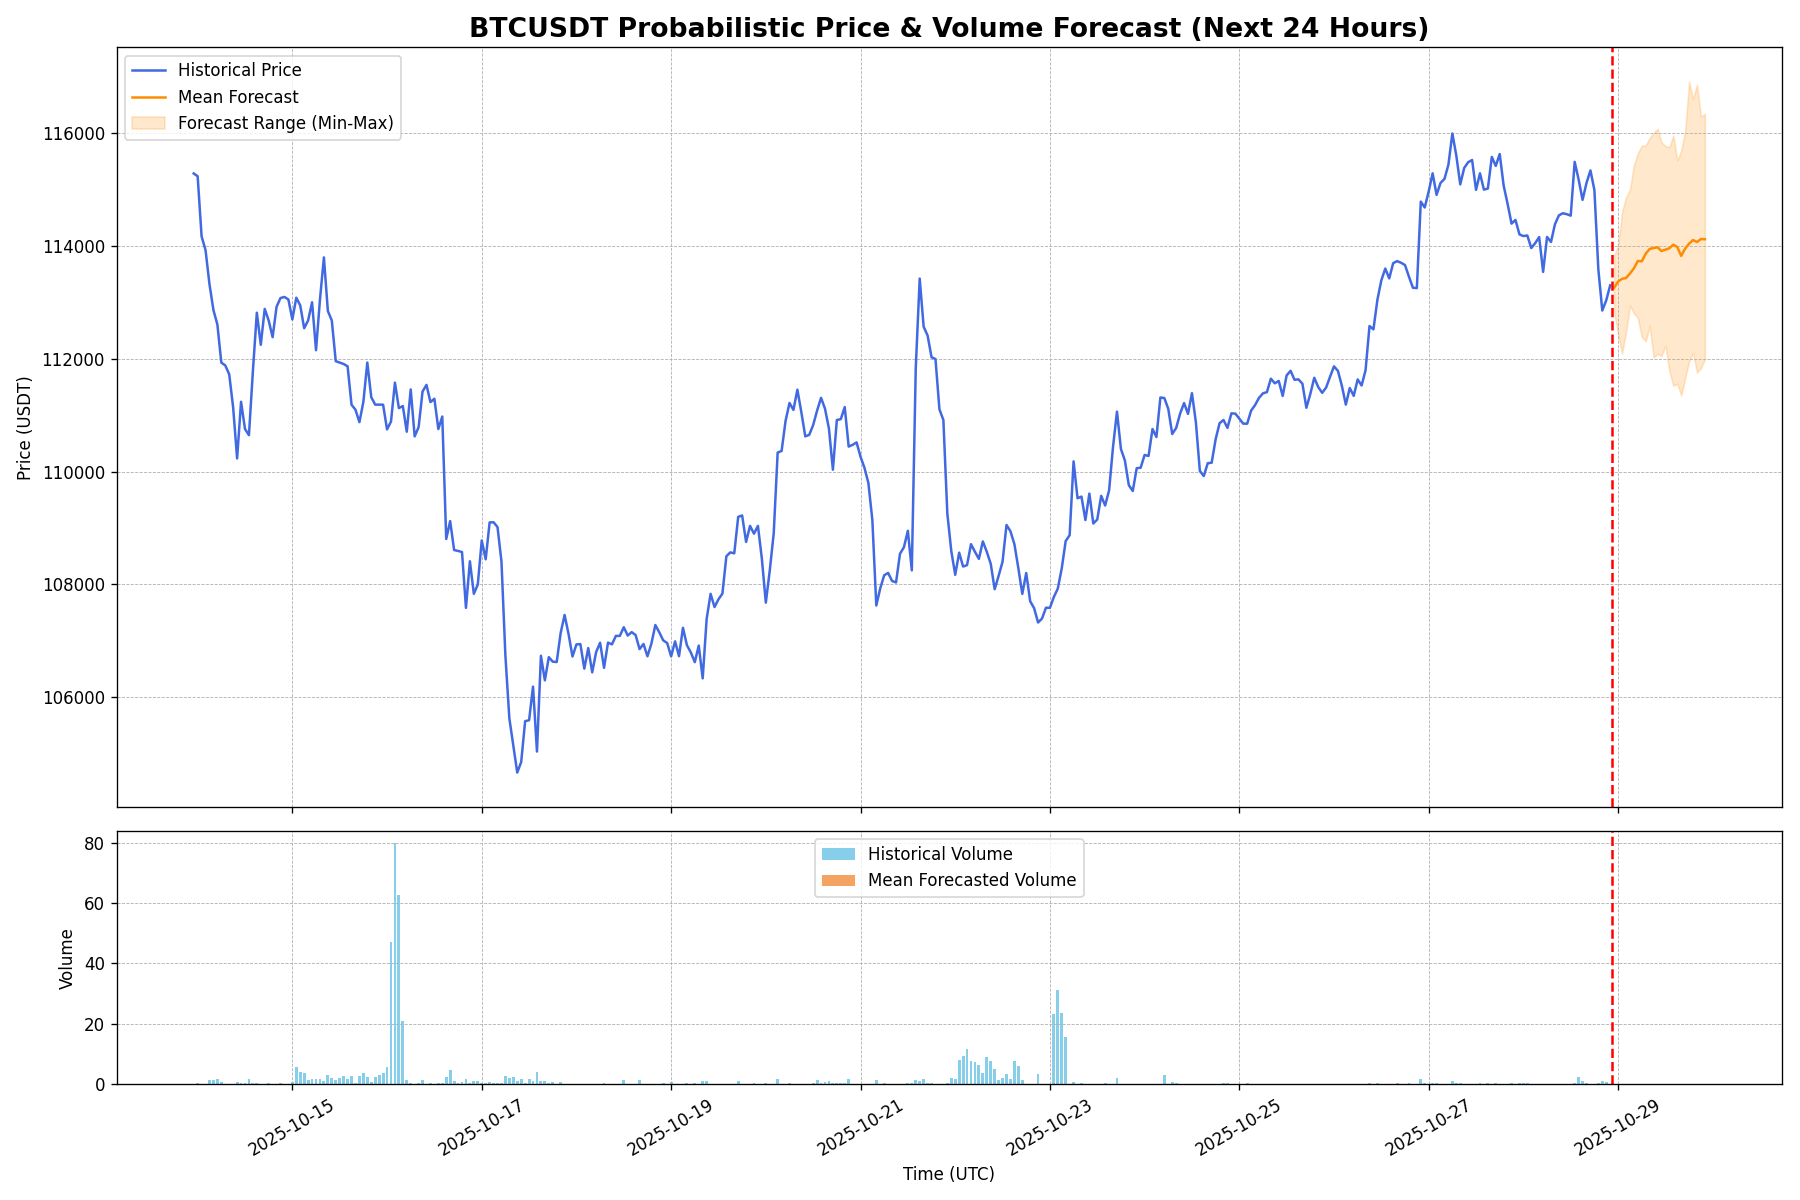
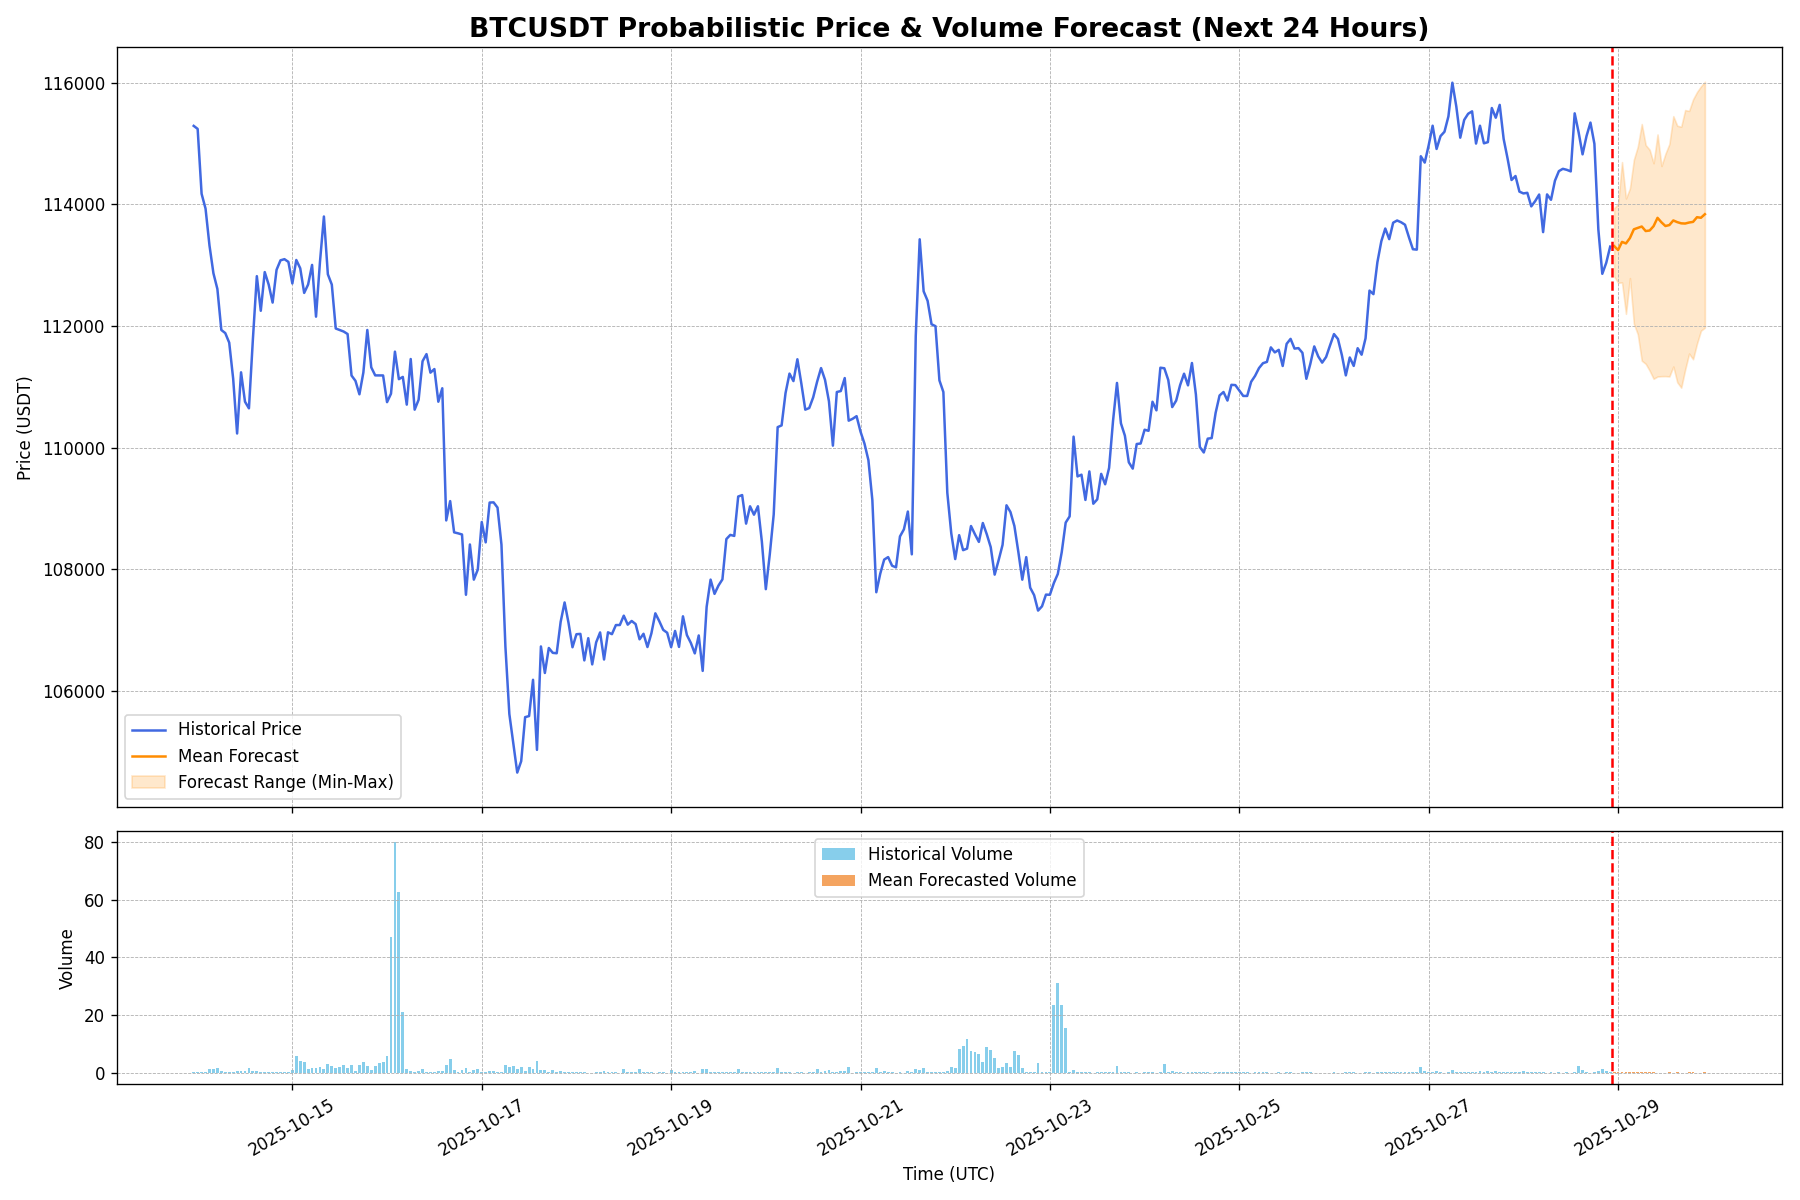
Auto-update forecast for 2025-10-28 23:19 UTC

diff --git a/index.html b/index.html
@@ -22,19 +22,19 @@
         <section id="live-dashboard">
             <h2>Live BTC/USDT Forecast Dashboard</h2>
             <div class="metadata">
-                <span>Last Updated (UTC): <strong id="update-time">2025-10-28 23:16:06</strong></span>
+                <span>Last Updated (UTC): <strong id="update-time">2025-10-28 23:19:35</strong></span>
                 <span>Data Source: Binance | Interval: 1-Hour</span>
             </div>
 
             <div class="metrics-container">
                 <div class="metric-card">
                     <h3>Upside Probability (Next 24h)</h3>
-                    <p class="metric-value" id="upside-prob">80.0%</p>
+                    <p class="metric-value" id="upside-prob">63.3%</p>
                     <div class="metric-desc">The model's confidence that the price in 24 hours will be higher than the last known price.</div>
                 </div>
                 <div class="metric-card">
                     <h3>Volatility Amplification (Next 24h)</h3>
-                    <p class="metric-value" id="vol-amp-prob">3.3%</p>
+                    <p class="metric-value" id="vol-amp-prob">0.0%</p>
                     <div class="metric-desc">The probability that predicted volatility over the next 24h will exceed recent historical volatility.</div>
                 </div>
             </div>
